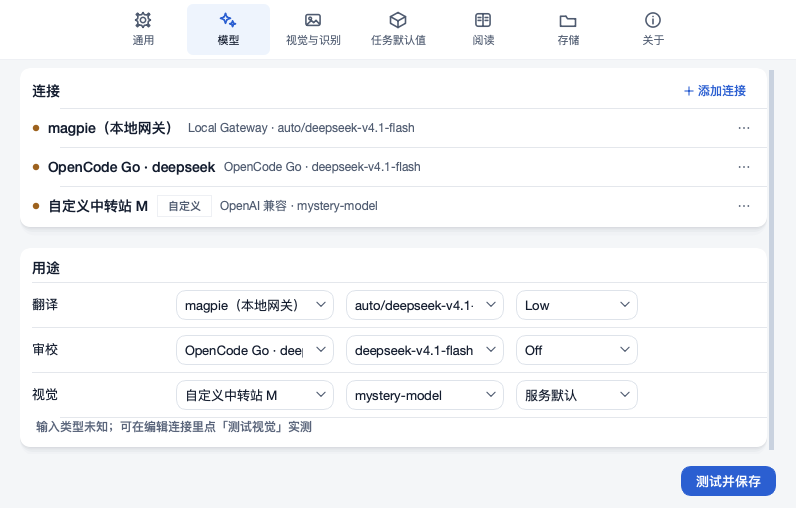
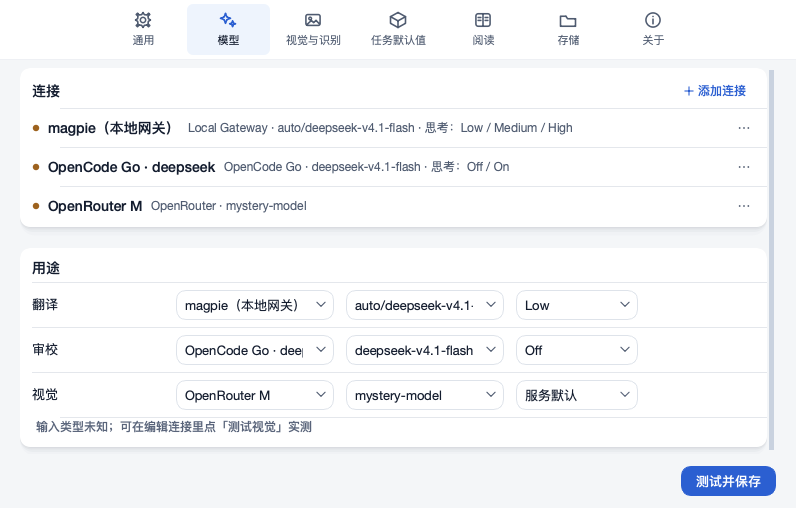
fix(0.8.3): (#540 PR-2) connection-level summary and disabled unknown-model selector

diff --git a/folith/qt/adapter.py b/folith/qt/adapter.py
@@ -75,9 +75,12 @@ TARGET_LANGUAGES: tuple[str, ...] = (
 
 DEFAULT_STYLE_RULES = _DEFAULT_STYLE_RULES
 
-# Oversized documents are refused before reading: a guard against accidental picks,
-# not a product limit; the formats/cap come from the shared application contract
-# so the client never advertises a format the core cannot ingest.
+# A single document larger than this is refused up front instead of being read
+# into memory and then failing deep inside the pipeline.  The limit is a guard
+# against an accidental pick (a disk image, a video), not a product boundary.
+# The accepted formats and the size cap come from the shared application
+# contract, so the desktop client can never advertise a format the core engine
+# cannot actually ingest.
 SUPPORTED_SUFFIXES = SOURCE_SUFFIXES  # compatibility alias for existing callers
 
 
@@ -117,7 +120,9 @@ class EngineConfig:
     reviewer_api_key: str = ""
     reviewer_base_url: str = ""
     reviewer_mode: str = "same"  # "same" | "separate"
-    # Delivery formats: declared for a new task, written to its delivery_config at creation.
+    # Delivery formats the user declares for a new task.  These are written into
+    # the job's own `delivery_config` at creation time, so the core's delivery
+    # gate and snapshot use exactly what the user asked for.
     deliver_plain_docx: bool = True
     deliver_bilingual_docx: bool = True
     deliver_pdf: bool = False
@@ -153,15 +158,8 @@ class EngineConfig:
             cfg.reviewer_model = str(reviewer.get("model") or "")
             cfg.reviewer_api_key = str(reviewer.get("api_key") or "")
             cfg.reviewer_base_url = str(reviewer.get("base_url") or "")
-        cfg.connections = list(saved.get("connections") or [])
-        cfg.connection_roles = dict(saved.get("connection_roles") or {})
-        cfg.connection_models = dict(saved.get("connection_models") or {})
-        cfg.connection_levels = dict(saved.get("connection_levels") or {})
-        cfg.ensure_connections()
         from folith.engine import effort_settings
-        cfg.connection_levels = effort_settings.migrate(cfg)
-        from folith.model_connections import effective_config
-        return effective_config(cfg, cfg.connections, cfg.connection_roles)
+        return effort_settings.migrate_loaded(cfg, saved)
 
     def ensure_connections(self):
         # Migrate existing connections in memory; the next explicit save writes
@@ -491,17 +489,19 @@ def job_config_values(config: EngineConfig, state: dict | None = None) -> dict:
     try:
         base_url = config.translator_base_url()
     except ValueError:
-        # Incomplete connections are reported, never raised: import needs no endpoint.
+        # An incomplete connection is *reported*, never raised, at the mapping
+        # step: importing a document does not need a usable endpoint, and
+        # starting a task reports the reason through the shared command's
+        # `connection_problem()` (the same readable message as before).
         base_url = None
     from folith.engine import effort_settings
-    level_effort, _mode = effort_settings.to_job_fields(
-        config.connection_levels, "translation", config.provider, config.model)
+    # #540 PR-2：翻译档位在客户端映射成核心认识的两个标量，运行时路径不变。
     return {
         "provider": config.provider,
         "model": config.model,
         "api_key": config.api_key,
         "translator_base_url": base_url,
-        "reasoning_effort": level_effort or config.reasoning_effort,
+        "reasoning_effort": effort_settings.translation_effort(config),
         "reviewer_mode": config.reviewer_mode,
         "reviewer_provider": config.reviewer_provider,
         "reviewer_model": config.reviewer_model,

diff --git a/tests/effort_settings_ui_test.py b/tests/effort_settings_ui_test.py
@@ -175,6 +175,40 @@ def test_level_selection_is_saved_in_config(app, monkeypatch):
         dlg.close()
 
 
+def test_unknown_model_level_is_disabled_with_a_dedicated_hint(app, monkeypatch):
+    dlg = dialogs.EngineDialog(_config(
+        connections=[
+            {"id": "gw", "name": "gateway", "provider": "Local Gateway",
+             "model": "auto/x", "api_key": "k", "base_url": "http://127.0.0.1:1/v1"},
+            {"id": "u", "name": "mystery", "provider": "OpenRouter",
+             "model": "mystery-model", "api_key": "k", "base_url": "http://127.0.0.1:9/v1"},
+        ],
+        connection_roles={"translation": "gw", "vision": "u"},
+        connection_models={"translation": "auto/x", "vision": "mystery-model"}), TaskRunner())
+    try:
+        lib = dlg.connection_library
+        box = lib.level_selectors["vision"]     # bound to mystery-model
+        assert not box.isEnabled(), "目录外的模型不能选档位"
+        assert box.count() == 1 and box.currentData() == "service_default"
+        assert "没有已验证" in box.toolTip()
+        assert "{v0}" not in box.toolTip()
+    finally:
+        dlg.close()
+
+
+def test_connection_row_summary_names_the_default_levels(app, monkeypatch):
+    dlg = _dialog(monkeypatch)
+    try:
+        lib = dlg.connection_library
+        labels = [w.toolTip() for w in lib.list_group.findChildren(object)
+                  if hasattr(w, "fullText")]
+        all_text = " ".join(labels)
+        # 网关摘要含 Low/Medium/High，DeepSeek 摘要含 Off/On；未知模型不写档位。
+        assert "Low / Medium / High" in all_text or "思考：" in all_text
+    finally:
+        dlg.close()
+
+
 def test_levels_survive_save_and_load(tmp_path, monkeypatch):
     import core
     data = tmp_path / "data"

diff --git a/folith/qt/connection_library.py b/folith/qt/connection_library.py
@@ -558,6 +558,12 @@ class ConnectionLibrary(QWidget):
         detail = f"{provider} · {p['model']}"
         if len(models) > 1:
             detail = i18n.tr('{v0} 等 {v1} 个模型', v0=detail, v1=len(models))
+        # #540 PR-2：连接行摘要带这条连接默认模型的思考档位；不认识的模型不写。
+        from folith.engine import effort_settings
+        level_labels = [i18n.tr(label) for _key, label in
+                        effort_settings.choices(p["provider"], p["model"])[1:]]
+        if level_labels:
+            detail += " · " + i18n.tr('思考：{v0}', v0=" / ".join(level_labels))
         meta = style.ElideLabel(detail, mode=Qt.TextElideMode.ElideRight)
         style.set_text_role(meta, "meta")
         row.addWidget(meta, 1, Qt.AlignmentFlag.AlignVCenter)
@@ -640,7 +646,12 @@ class ConnectionLibrary(QWidget):
         box.setCurrentIndex(index if index >= 0 else 0)
         box.blockSignals(False)
         box.setEnabled(bool(model))
-        if effort_settings.cannot_switch(provider, model):
+        from folith.engine import effort_settings
+        if not model or not effort_settings.choices(provider, model)[1:]:
+            # #540 C-21：目录里没有这个模型 → 灰字「服务默认」不可选 + 专门说明。
+            box.setEnabled(False)
+            box.setToolTip(i18n.tr('这个模型没有已验证的思考档位'))
+        elif effort_settings.cannot_switch(provider, model):
             box.setToolTip(i18n.tr('这个模型无法关闭思考；可在这里调整推理强度。'))
         else:
             box.setToolTip(i18n.tr('只列这个模型已验证的思考档位。'))

diff --git a/folith/engine/effort_settings.py b/folith/engine/effort_settings.py
@@ -8,6 +8,8 @@ already understands, so no runtime path changes.
 """
 from __future__ import annotations
 
+import dataclasses
+
 from typing import Any, Mapping
 
 from folith.engine import reasoning_catalog as catalog
@@ -82,6 +84,29 @@ def migrate(config: Any) -> dict[str, str]:
         if mode in ("thinking_disabled", "thinking_disabled_vllm"):
             result[role] = "off"
     return result
+
+
+def migrate_loaded(config, saved: dict) -> "object":
+    """Migration entry point used by ``EngineConfig.load`` (keeps adapter short)."""
+    from folith.model_connections import effective_config
+
+    cfg = dataclasses.replace(
+        config,
+        connections=list(saved.get("connections") or []),
+        connection_roles=dict(saved.get("connection_roles") or {}),
+        connection_models=dict(saved.get("connection_models") or {}),
+        connection_levels=dict(saved.get("connection_levels") or {}),
+    )
+    cfg.ensure_connections()
+    cfg.connection_levels = migrate(cfg)
+    return effective_config(cfg, cfg.connections, cfg.connection_roles)
+
+
+def translation_effort(config) -> str:
+    """The legacy scalar for a config's translation role (client mapping only)."""
+    effort, _mode = to_job_fields(config.connection_levels, "translation",
+                                  config.provider, config.model)
+    return effort or str(getattr(config, "reasoning_effort", "") or "")
 
 
 def is_legacy(level: str, provider: str, model: str) -> bool:

diff --git a/docs/evidence/0.8.3-c540-pr2-effort-ui.md b/docs/evidence/0.8.3-c540-pr2-effort-ui.md
@@ -52,7 +52,22 @@
 | [effort-en-dark.png](c540-effort-ui/effort-en-dark.png) | 英文 · 暗色：同上 |
 
 示例包含本地网关（magpie，无 Off，档位 Low）、OpenCode Go 的 deepseek（有 Off 档）、
-一个不认识的自定义模型（只显示「服务默认」，不可选），以及三条连接行的摘要。
+一个不认识的自定义模型（只显示「服务默认」，不可选），以及三条连接行的档位摘要：
+`magpie … · 思考：Low / Medium / High`、`OpenCode Go … · 思考：Off / On`；
+不认识的模型不写摘要。
+
+## C-21 返修（2026-11-20）
+
+- **连接行档位摘要**：`_connection_row()` 追加当前目录里该模型默认模型支持的档位
+  （如「思考：Low / Medium / High」「思考：Off / On」）；目录外的模型不写。
+- **未知模型不可选**：`update_level_selector()` 在目录没有该模型时 `setEnabled(False)`，
+  下拉只有灰字「服务默认」，悬停改为专门说明「这个模型没有已验证的思考档位」；
+  新增界面测试断言不可选/提示文本，变异检查把该分支改回可选时 1 条用例变红。
+- **注释恢复**：`adapter.py` 里为行数压缩的两段说明性注释已恢复；迁移调用挪进
+  `effort_settings.migrate_loaded()` / `translation_effort()`，`adapter.py` 回到 6,756 行。
+- `core.py` +4 行（持久化 `connection_levels` 字段），规格第 4 节允许这类只加字段的改动，
+  已在 PR 描述写明。
+
 
 ## 下一 PR（可选）
 
